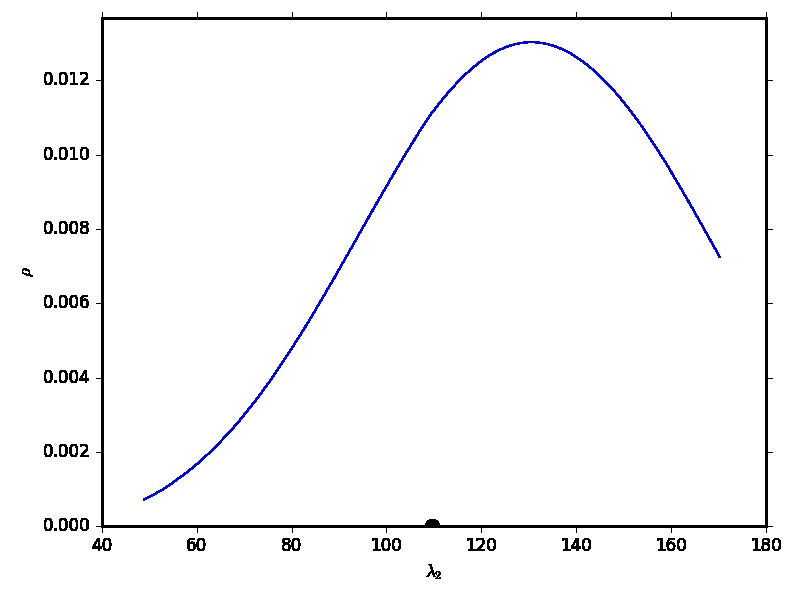
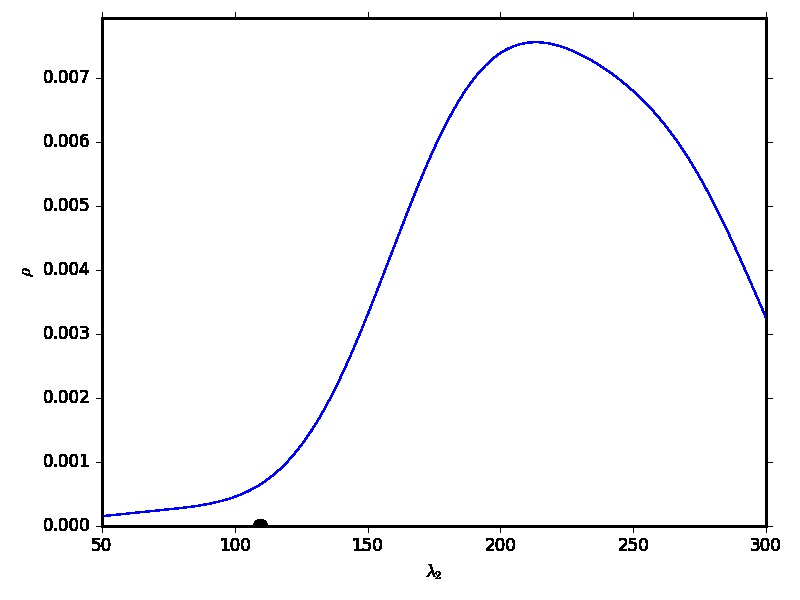
Updates to concrete example

diff --git a/bet/postProcess/plotP.py b/bet/postProcess/plotP.py
@@ -439,11 +439,14 @@ def smooth_marginals_2D(marginals, bins, sigma=10.0):
 
 
 def plot_2D_marginal_contours(marginals, bins, sample_set,
-                              contour_num = 8, filename="file", 
+                              contour_num = 8, 
                               lam_ref=None, lam_refs = None,
                               plot_domain = None,
                               interactive=False,
-                              lambda_label=None, file_extension=".png"):
+                              lambda_label=None, 
+                              contour_font_size = 20,
+                              filename="file", 
+                              file_extension=".png"):
         
     """
     This makes plots of every pair of marginals (or joint in 2d case) of
@@ -522,7 +525,8 @@ def plot_2D_marginal_contours(marginals, bins, sample_set,
                 label2 = lambda_label[j]
             ax.set_xlabel(label1, fontsize=30) 
             ax.set_ylabel(label2, fontsize=30)
-            ax.tick_params(axis='both', which='major', labelsize=20)
+            ax.tick_params(axis='both', which='major', 
+                           labelsize=contour_font_size)
             plt.clabel(quadmesh, fontsize=24, inline=1, style='sci')
             
 #            label_cbar = r'$\rho_{\lambda_{' + str(i+1) + '}, ' 

diff --git a/examples/Yongcheng/3 variables code---no tf and D/6 weeks_3 variables.py b/examples/Yongcheng/3 variables code---no tf and D/6 weeks_3 variables.py
@@ -14,7 +14,7 @@ from myModel_yongcheng import my_model
 sampler = bsam.sampler(my_model)
 input_samples = samp.sample_set(3)
 input_samples.set_domain(np.array([[7.79, 14.48],
-                                   [48.95, 170.22],
+                                   [50, 300],
                                    [0.73, 2.72]]))
                                    
 randomSampling = True
@@ -95,6 +95,7 @@ plotP.plot_2D_marginal_contours(marginals2D, bins, input_samples,
                              lam_ref = ref_param,
                              lam_refs = ref_params,
                              contour_num = 10,
+                             contour_font_size = 20,
                              filename = "Deflection",
                              file_extension = ".jpg")
 

diff --git a/examples/Yongcheng/3 variables code---no tf and D/myModel_yongcheng.py b/examples/Yongcheng/3 variables code---no tf and D/myModel_yongcheng.py
@@ -16,5 +16,5 @@ def my_model(parameter_samples):
     D = 4.03
 #    T = np.random.normal(0.0065, 0.00033, 6000000)
 #    D = np.random.normal(4, 0.00033, 6000000)
-    A = B+30*0.55*6.6*C*0.0065*F/4.03 #elementwise operations
+    A = B+10*6.6*C*T*F/D #elementwise operations
     return A
